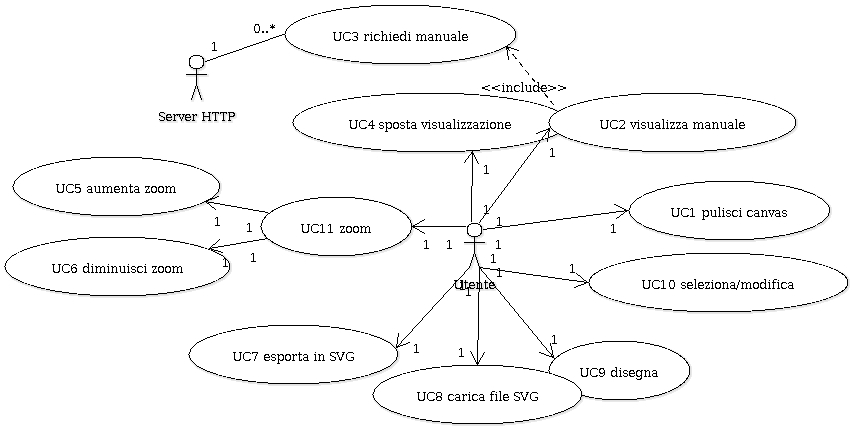
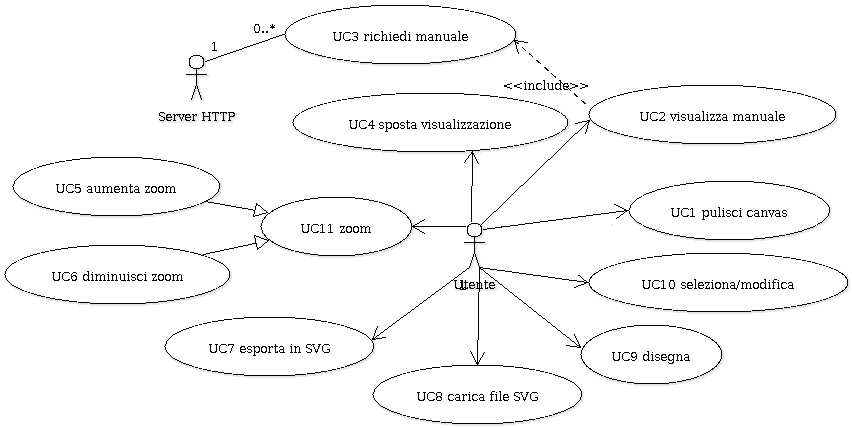
AR: cambiato in seguito a verifica, tolta cardinalità da UC

diff --git a/doc/AnalisiRequisiti/AnalisiDeiRequisiti.tex b/doc/AnalisiRequisiti/AnalisiDeiRequisiti.tex
@@ -2,7 +2,7 @@
 \usepackage{multirow}
 \begin{document}
 
-\renewcommand{\insertversion}{1.2} %INSERIRE LA VERSIONE QUI DENTRO STILE x.x.xx
+\renewcommand{\insertversion}{1.3} %INSERIRE LA VERSIONE QUI DENTRO STILE x.x.xx
 \renewcommand{\TITOLODOC}{Analisi dei Requisiti} %INSERIRE IL TITOLO DEL DOCUMENTO DA FAR COMPARIRE A PIE PAGINA
 
 \begin{titlepage}
@@ -37,7 +37,7 @@
 	\end{Huge}
 			\\
 \end{center}
-\vspace{220pt}
+\vspace{200pt}
 \begin{center}
 Versione: \insertversion
 \end{center}
@@ -106,7 +106,7 @@ Tale studio \`e mirato alla comprensione dei bisogni espressi nel capitolato e a
 			\multirow{2}{*}{Pre-RR}  &  Cunico Marco\\
 									&  \\
 			\hline
-			\multirow{2}{*}{RR-RPP} & \\
+			\multirow{2}{*}{RR-RPP} & Geremia Mirco\\
 									& \\
 			\hline
 			%%%%%%%%%%% FINE PARTE DA MODIFICARE %%%%%%%%%%%%%%%%%%%%%%%%%%%%%%%%%%%
@@ -125,7 +125,7 @@ Tale studio \`e mirato alla comprensione dei bisogni espressi nel capitolato e a
 		\item I committenti Conte Renato e Vardanega Tullio in rappresentanza \\  dell'azienda proponente Zucchetti SPA
 	\end{elenconumerato}
 
-%\newpage
+\newpage
 
 \section*{\LARGE Registro delle Modifiche:}
 
@@ -141,9 +141,11 @@ Tale studio \`e mirato alla comprensione dei bisogni espressi nel capitolato e a
 
 %%%%%%%%%%% PARTE DA MODIFICARE %%%%%%%%%%%%%%%%%%%%%%%%%%%%%%%%%%%%%
                 \hline
-				1.2 & 21$\slash$01$\slash$2009 Modifica ad U.C.  & Cunico Marco \\
+				1.3 & 22$\slash$01$\slash$2009 Modifiche eseguite su segnalazione del verificatore.  & Cunico Marco \\
                 \hline
-				1.1 & 14$\slash$01$\slash$2009 Inserita tabella tracciamento "Requisiti-Casi d'uso" e modifiche a U.C.10 & Cunico Marco \\
+				1.2 & 21$\slash$01$\slash$2009 Modifica ad U.C. Interazione.  & Cunico Marco \\
+                \hline
+				1.1 & 14$\slash$01$\slash$2009 Inserita tabella tracciamento ''Requisiti-Casi d'uso'' e modifiche a U.C.10. & Cunico Marco \\
 				\hline
 				1.0 & 09$\slash$12$\slash$2008  Verifica finale in preparazione al rilascio. & Bizzotto Piero \\
 				\hline
@@ -386,7 +388,7 @@ Il seguente grafico illustra le interazioni tra l'utente e il sistema per disegn
 \begin{figure}[!ht]
 \centering
 \vspace{20pt} 
-\includegraphics{UC9Espanso}
+\includegraphics{UC9Espanso.jpg}
 \caption{UC9 Caso d'uso: disegna}
 \label{uc9}
 \end{figure}
@@ -724,7 +726,7 @@ Il sistema consente di modificare la dimensione dei caratteri del testo di una c
 \label{listarequisiti}
 I requisiti elencati in seguito si dividono per tipologia (funzionale, prestazionale, di qualit\`a, di interfacciamento, d'ambiente); 
 per ognuna \`e presente una classificazione per classe di importanza (obbligatorio, desiderabile, facoltativo). Viene inoltre indicata la fonte usando un riferimento alle aspettative descritte in \textit{Aspettative.pdf}.
-Tutti i requisiti elencati in seguito sono espliciti del capitolato. 
+Tutti i requisiti elencati in seguito derivano unicamente ed esplicitamente dal capitolato.
 \subsezione{Requisiti funzionali (RF)}
 \subsubsezione{Obbligatori (RFO)}
 \begin{elenconumerato}[\textbf{RFO-}]{\subsubsecindent}
